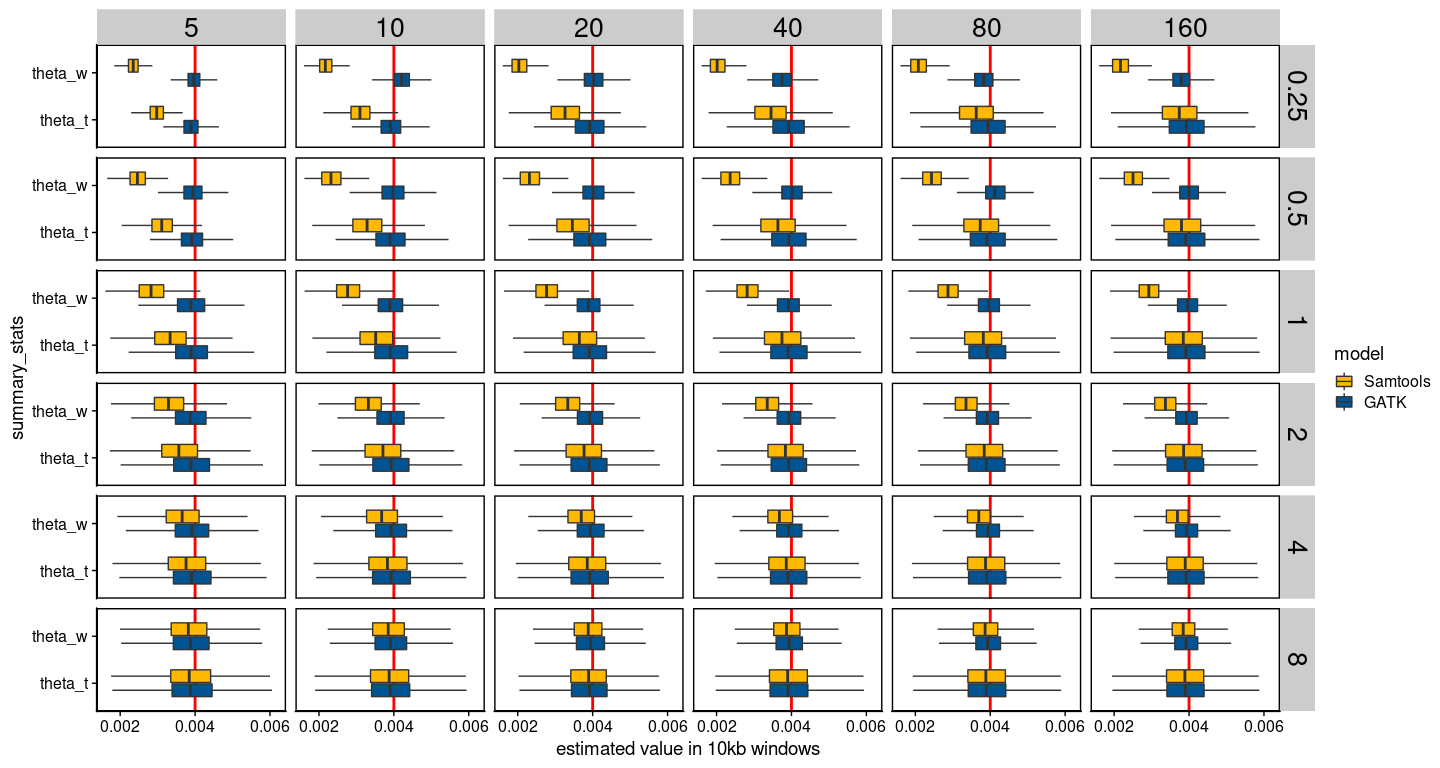
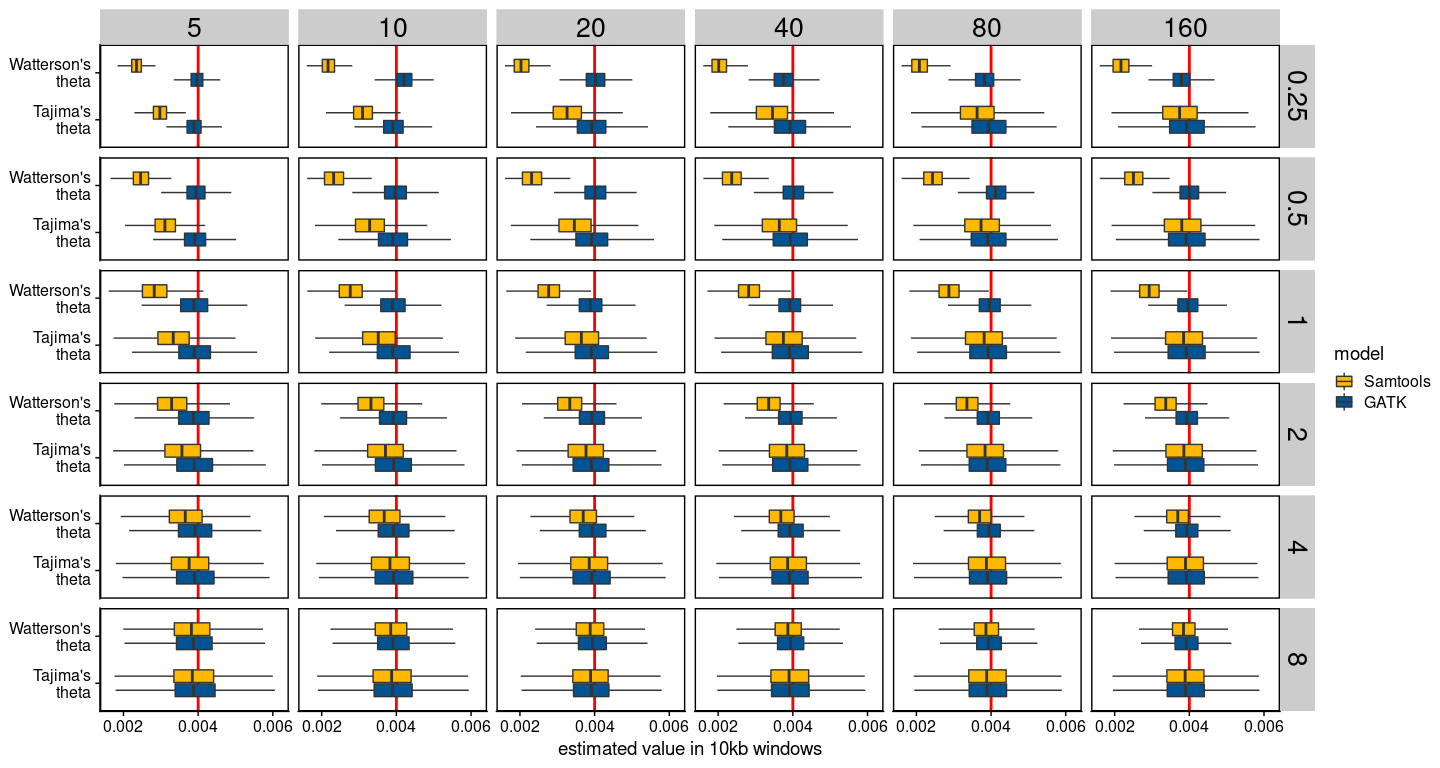
minor updates to two figures

diff --git a/markdowns/data_analysis_neutral_gatk.md b/markdowns/data_analysis_neutral_gatk.md
@@ -544,6 +544,7 @@ thetas_combined <- mutate(thetas_final, model="GATK") %>%
   bind_rows(mutate(samtools_thetas, model="Samtools"))
 thetas_combined %>%
   filter(summary_stats != "tajima_d") %>%
+  mutate(summary_stats=ifelse(summary_stats=="theta_w", "Watterson's\ntheta", "Tajima's\ntheta")) %>%
   ggplot(aes(x=summary_stats, y=value, fill=model)) +
   geom_hline(yintercept=0.004, color = "red", size = 1, linetype=1) +
   geom_boxplot(outlier.alpha = 0, width=0.6) +
@@ -555,7 +556,8 @@ thetas_combined %>%
   theme_cowplot() +
   theme(strip.text = element_text(size=20),
         axis.text.x = element_text(angle=0),
-        panel.border = element_rect(colour = "black", fill=NA, size=1)) 
+        panel.border = element_rect(colour = "black", fill=NA, size=1),
+        axis.title.y = element_blank()) 
 ```
 
     ## Warning: Removed 1760 rows containing non-finite values (stat_boxplot).
@@ -575,7 +577,10 @@ thetas_combined %>%
   theme_cowplot() +
   theme(strip.text = element_text(size=20),
         axis.text.x = element_text(angle=0),
-        panel.border = element_rect(colour = "black", fill=NA, size=1))
+        panel.border = element_rect(colour = "black", fill=NA, size=1),
+        axis.title.y = element_blank(),
+        axis.text.y = element_blank(),
+        axis.ticks.y = element_blank())
 ```
 
 ![](data_analysis_neutral_gatk_files/figure-gfm/unnamed-chunk-25-2.png)<!-- -->
